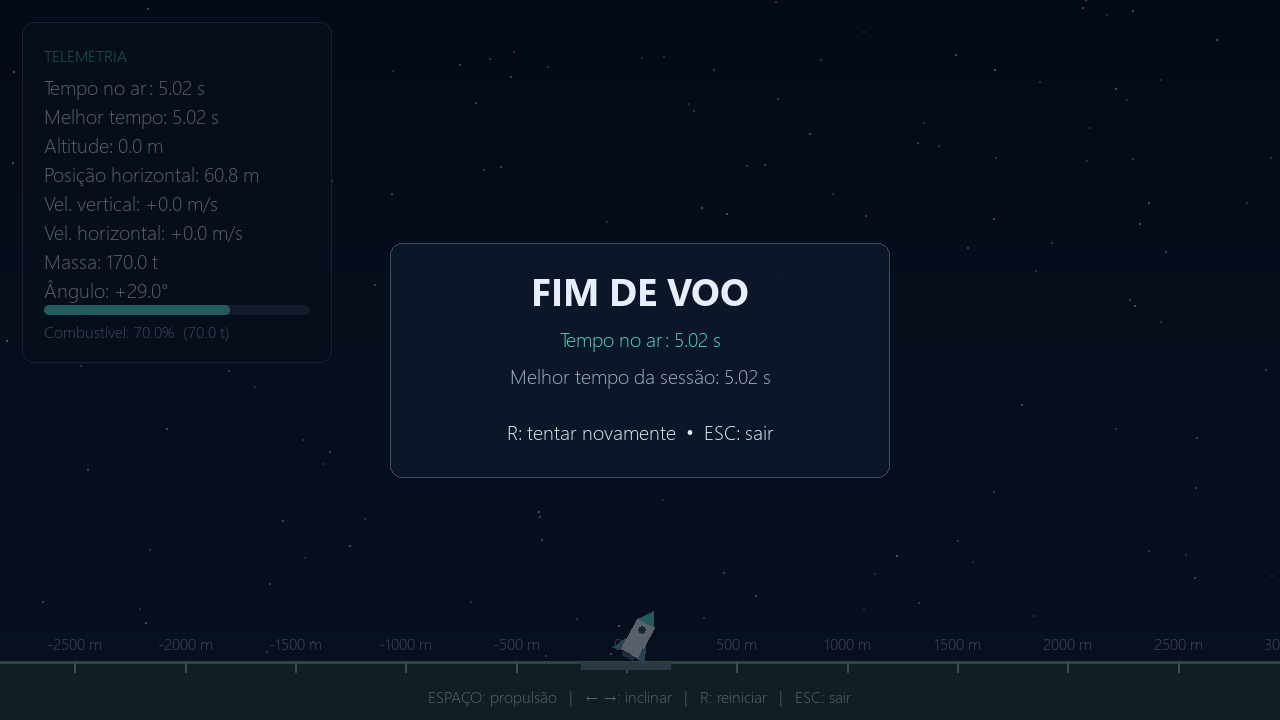
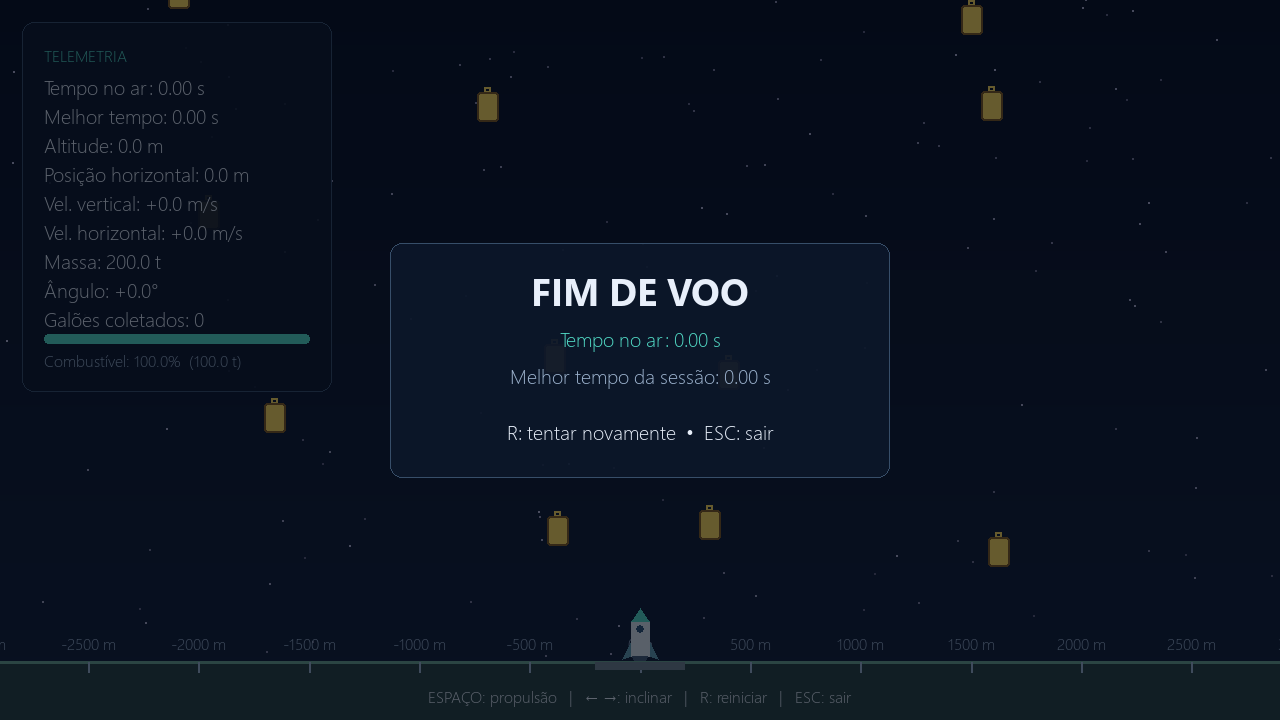
Adicionado combustivel e correções menores

diff --git a/main.py b/main.py
@@ -9,16 +9,24 @@ from physics import DT, FPS, FUEL_MASS
 from rocket import Rocket
 
 WORLD_HEIGHT = 3000.0  # metros visíveis na tela, antes do deslocamento da câmera
+MAX_ALTITUDE = 10_000.0  # teto e objetivo do voo, em metros
 GROUND_FRACTION = 0.08  # fração da tela ocupada pelo solo
 TEXT = (232, 239, 250)
 MUTED = (157, 179, 206)
 ACCENT = (82, 219, 198)
+FUEL_CELL_AMOUNT = FUEL_MASS * 0.60
+FUEL_CELL_RADIUS = 180.0  # margem de coleta incluindo o tamanho do foguete
+FUEL_CELL_COUNT = 4  # itens próximos da partida
+FUEL_SECTOR_WIDTH = 1200.0
+FUEL_SECTOR_HEIGHT = 900.0
+CAMERA_ROCKET_HEIGHT = 0.65  # mais espaço visível acima do foguete
 
 
 class Game:
     """Score em passos de simulação; o recorde dura enquanto o jogo estiver aberto."""
 
-    def __init__(self):
+    def __init__(self, rng=None):
+        self.rng = rng if rng is not None else random.Random()
         self.best = 0.0
         self.restart()
 
@@ -28,14 +36,74 @@ class Game:
 
     def restart(self):
         self.rocket = Rocket()
+        self.won = False
         self.frames = 0
+        self.fuel_cells = []
+        for altitude in (650, 1350):
+            for side in (-1, 1):
+                self.fuel_cells.append((
+                    side * self.rng.uniform(280, 420),
+                    altitude + self.rng.uniform(-60, 60),
+                ))
+        self.generated_sectors = set()
+        self.highest_y = self.rocket.y
+        self.collected = 0
+        self.extend_fuel_field()
+
+    def extend_fuel_field(self):
+        self.highest_y = max(self.highest_y, self.rocket.y)
+        # Explora setores do mapa nos dois eixos, antes de chegarem à tela.
+        left = math.floor((self.rocket.x - 4500) / FUEL_SECTOR_WIDTH)
+        right = math.floor((self.rocket.x + 4500) / FUEL_SECTOR_WIDTH)
+        bottom = max(0, math.floor((self.rocket.y - 3500) / FUEL_SECTOR_HEIGHT))
+        top = math.floor((self.rocket.y + 3500) / FUEL_SECTOR_HEIGHT)
+        for column in range(left, right + 1):
+            for row in range(bottom, top + 1):
+                sector = (column, row)
+                if sector in self.generated_sectors:
+                    continue
+                self.generated_sectors.add(sector)
+                if self.rng.random() > 0.65:
+                    continue
+                x = (column + self.rng.uniform(0.2, 0.8)) * FUEL_SECTOR_WIDTH
+                y = (row + self.rng.uniform(0.2, 0.8)) * FUEL_SECTOR_HEIGHT
+                # A região inicial tem somente os quatro galões de apoio.
+                if y >= MAX_ALTITUDE or (abs(x) < 900 and 250 < y < 1800):
+                    continue
+                self.fuel_cells.append((x, y))
+        # Descarta itens muito abaixo para limitar o uso de memória em voos longos.
+        floor = self.highest_y - WORLD_HEIGHT * 2
+        self.fuel_cells = [(x, y) for x, y in self.fuel_cells if y >= floor]
 
     def update(self, thrusting=False, turn=0):
-        if self.rocket.alive:
+        if self.rocket.alive and not self.won:
+            old_x, old_y = self.rocket.x, self.rocket.y
             # Atualização com passo fixo Δt = 1/60 s
             self.rocket.update(DT, thrusting, turn)
+            if self.rocket.alive:
+                if self.rocket.y >= MAX_ALTITUDE:
+                    self.rocket.y = MAX_ALTITUDE
+                    self.rocket.vx = self.rocket.vy = 0.0
+                    self.rocket.thrusting = False
+                    self.won = True
+                self.collect_fuel(old_x, old_y)
+                if not self.won:
+                    self.extend_fuel_field()
             self.frames += 1
             self.best = max(self.best, self.elapsed)
+
+    def collect_fuel(self, old_x, old_y):
+        # Distância ao trajeto do frame: não perde galões em alta velocidade.
+        dx, dy = self.rocket.x - old_x, self.rocket.y - old_y
+        length_squared = dx * dx + dy * dy
+        for x, y in self.fuel_cells[:]:
+            t = 0.0 if length_squared == 0 else max(
+                0.0, min(1.0, ((x - old_x) * dx + (y - old_y) * dy) / length_squared)
+            )
+            if math.hypot(x - old_x - t * dx, y - old_y - t * dy) <= FUEL_CELL_RADIUS:
+                self.rocket.fuel = min(FUEL_MASS, self.rocket.fuel + FUEL_CELL_AMOUNT)
+                self.fuel_cells.remove((x, y))
+                self.collected += 1
 
 
 class Renderer:
@@ -72,10 +140,11 @@ class Renderer:
         self.screen.blit(layer, rect)
         pygame.draw.rect(self.screen, (55, 78, 105), rect, 1, border_radius=12)
 
-    def draw_world(self, rocket):
+    def draw_world(self, game):
+        rocket = game.rocket
         # A câmera acompanha x e sobe quando necessário, sem alterar o movimento.
         camera_x = rocket.x
-        camera_y = max(0.0, rocket.y - WORLD_HEIGHT * 0.85)
+        camera_y = max(0.0, rocket.y - WORLD_HEIGHT * CAMERA_ROCKET_HEIGHT)
 
         def to_screen(x, y):
             return int(self.sw / 2 + (x - camera_x) * self.scale), int(self.ground_y - (y - camera_y) * self.scale)
@@ -94,6 +163,17 @@ class Renderer:
                 self.label(f"{x} m", sx, sy - self.small.get_height() - 8, MUTED, self.small, centered=True)
             sx, sy = to_screen(0, 0)
             pygame.draw.rect(self.screen, (113, 130, 144), (sx - 45, sy, 90, 8))
+
+        # Galões fixos no mundo, transformados pela mesma câmera do foguete.
+        for x, y in game.fuel_cells:
+            sx, sy = to_screen(x, y)
+            w, h = max(16, int(22 * self.ui)), max(22, int(30 * self.ui))
+            rect = pygame.Rect(sx - w // 2, sy - h // 2, w, h)
+            if not self.screen.get_rect().colliderect(rect.inflate(8, 12)):
+                continue
+            pygame.draw.rect(self.screen, (255, 219, 91), (rect.centerx - w // 5, rect.top - 5, max(4, w // 3), 6), 2)
+            pygame.draw.rect(self.screen, (255, 219, 91), rect, border_radius=3)
+            pygame.draw.rect(self.screen, (129, 90, 31), rect, 2, border_radius=3)
 
         # Desenho
         px, py = to_screen(rocket.x, rocket.y)  # (px, py) = centro de massa
@@ -125,11 +205,11 @@ class Renderer:
 
     def draw(self, game):
         rocket = game.rocket
-        self.draw_world(rocket)
+        self.draw_world(game)
         margin = int(22 * self.ui)
         row = max(22, int(29 * self.ui))
         width = max(245, int(310 * self.ui))
-        self.panel(pygame.Rect(margin, margin, width, row * 11 + margin))
+        self.panel(pygame.Rect(margin, margin, width, row * 12 + margin))
         x, y = margin * 2, margin * 2
         self.label("TELEMETRIA", x, y, ACCENT, self.small)
         lines = [
@@ -141,19 +221,20 @@ class Renderer:
             f"Vel. horizontal: {rocket.vx:+.1f} m/s",
             f"Massa: {rocket.mass / 1000:.1f} t",
             f"Ângulo: {math.degrees(rocket.angle):+.1f}°",
+            f"Galões coletados: {game.collected}",
         ]
         for i, line in enumerate(lines, 1):
             self.label(line, x, y + i * row)
         ratio = rocket.fuel / FUEL_MASS
-        bar = pygame.Rect(x, y + 9 * row, width - 2 * margin, max(8, int(10 * self.ui)))
+        bar = pygame.Rect(x, y + 10 * row, width - 2 * margin, max(8, int(10 * self.ui)))
         pygame.draw.rect(self.screen, (43, 60, 80), bar, border_radius=4)
         if ratio > 0:
             pygame.draw.rect(self.screen, ACCENT if ratio > .2 else (255, 169, 77), (bar.x, bar.y, int(bar.width * ratio), bar.height), border_radius=4)
         self.label(f"Combustível: {ratio:.1%}  ({rocket.fuel / 1000:.1f} t)", x, bar.bottom + 5, MUTED, self.small)
         self.label("ESPAÇO: propulsão   |   ← →: inclinar   |   R: reiniciar   |   ESC: sair", self.sw // 2, self.sh - max(26, int(35 * self.ui)), TEXT, self.small, centered=True)
-        if rocket.alive and rocket.fuel == 0:
+        if rocket.alive and not game.won and rocket.fuel == 0:
             self.label("Combustível esgotado", self.sw // 2, margin, (255, 169, 77), centered=True)
-        if not rocket.alive:
+        if not rocket.alive or game.won:
             shade = pygame.Surface(self.screen.get_size(), pygame.SRCALPHA)
             shade.fill((3, 8, 18, 155))
             self.screen.blit(shade, (0, 0))
@@ -161,7 +242,7 @@ class Renderer:
             card.center = (self.sw // 2, self.sh // 2)
             self.panel(card)
             cx = card.centerx
-            self.label("FIM DE VOO", cx, card.top + int(22 * self.ui), font=self.title, centered=True)
+            self.label("10.000 m — VITÓRIA!" if game.won else "FIM DE VOO", cx, card.top + int(22 * self.ui), font=self.title, centered=True)
             self.label(f"Tempo no ar: {game.elapsed:.2f} s", cx, card.top + int(82 * self.ui), ACCENT, centered=True)
             self.label(f"Melhor tempo da sessão: {game.best:.2f} s", cx, card.top + int(119 * self.ui), MUTED, centered=True)
             self.label("R: tentar novamente  •  ESC: sair", cx, card.top + int(175 * self.ui), centered=True)

diff --git a/test_game.py b/test_game.py
@@ -1,13 +1,39 @@
 """Validação numérica dos requisitos; execute com py -m unittest -v."""
 import math
+import random
 import unittest
 
-from main import Game
+from main import FUEL_CELL_AMOUNT, FUEL_CELL_COUNT, FUEL_CELL_RADIUS, MAX_ALTITUDE, Game
 from physics import DT, DRY_MASS, FUEL_MASS, FUEL_PER_FRAME, G, MAX_ANGLE, THRUST
 from rocket import Rocket
 
 
 class PhysicsTests(unittest.TestCase):
+    def test_altitude_limit_finishes_flight_and_restart_clears_victory(self):
+        game = Game()
+        game.rocket.y = MAX_ALTITUDE - 1
+        game.rocket.vy = 120
+        game.update(True)
+        self.assertTrue(game.won)
+        self.assertTrue(game.rocket.alive)
+        self.assertEqual(game.rocket.y, MAX_ALTITUDE)
+        self.assertEqual((game.rocket.vx, game.rocket.vy), (0, 0))
+        self.assertFalse(game.rocket.thrusting)
+        state = (game.elapsed, game.rocket.x, game.rocket.y, game.rocket.fuel)
+        for _ in range(60):
+            game.update(True, 1)
+        self.assertEqual(state, (game.elapsed, game.rocket.x, game.rocket.y, game.rocket.fuel))
+        game.restart()
+        self.assertFalse(game.won)
+        self.assertEqual(game.rocket.y, 1000)
+        self.assertEqual(game.elapsed, 0)
+
+    def test_fuel_stays_below_altitude_limit(self):
+        game = Game(rng=random.Random(42))
+        game.rocket.y = MAX_ALTITUDE - 100
+        game.extend_fuel_field()
+        self.assertTrue(all(y < MAX_ALTITUDE for x, y in game.fuel_cells))
+
     def test_free_fall_and_collision(self):
         rocket = Rocket(y=100)
         frames = 0
@@ -27,7 +53,7 @@ class PhysicsTests(unittest.TestCase):
         self.assertEqual(rocket.fuel, FUEL_MASS - FUEL_PER_FRAME)
         expected_vy = (THRUST / (DRY_MASS + FUEL_MASS) - G) * DT
         self.assertAlmostEqual(rocket.vy, expected_vy)
-        self.assertAlmostEqual(rocket.y, 2500 + expected_vy * DT)
+        self.assertAlmostEqual(rocket.y, 1000 + expected_vy * DT)
 
     def test_fuel_exhaustion(self):
         rocket = Rocket(y=100_000)
@@ -66,6 +92,101 @@ class PhysicsTests(unittest.TestCase):
         self.assertEqual(game.best, score)
         self.assertTrue(game.rocket.alive)
         self.assertEqual(game.rocket.fuel, FUEL_MASS)
+
+    def test_collect_refuels_once_and_changes_mass(self):
+        game = Game()
+        game.fuel_cells = [(500, 1000)]
+        game.rocket.x, game.rocket.y = game.fuel_cells[0]
+        game.rocket.fuel = FUEL_MASS * 0.20
+        game.update()
+        self.assertEqual(game.collected, 1)
+        self.assertNotIn((500, 1000), game.fuel_cells)
+        self.assertEqual(game.rocket.fuel, FUEL_MASS * 0.20 + FUEL_CELL_AMOUNT)
+        self.assertEqual(game.rocket.mass, DRY_MASS + game.rocket.fuel)
+        game.update()
+        self.assertEqual(game.collected, 1)
+        self.assertEqual(game.rocket.fuel, FUEL_MASS * 0.20 + FUEL_CELL_AMOUNT)
+
+    def test_collect_caps_tank_and_restart_restores_cells(self):
+        game = Game()
+        game.rocket.x, game.rocket.y = game.fuel_cells[0]
+        game.rocket.fuel = FUEL_MASS - 1
+        game.update()
+        self.assertEqual(game.rocket.fuel, FUEL_MASS)
+        game.restart()
+        self.assertEqual(game.collected, 0)
+        self.assertEqual(sum(abs(x) < 900 and 250 < y < 1800 for x, y in game.fuel_cells), FUEL_CELL_COUNT)
+        self.assertEqual(game.rocket.y, 1000)
+
+    def test_four_nearby_cells_and_random_map_on_restart(self):
+        game = Game(rng=random.Random(42))
+        original = game.fuel_cells[:]
+        nearby = [(x, y) for x, y in original if abs(x) < 900 and 250 < y < 1800]
+        self.assertEqual(len(nearby), 4)
+        self.assertTrue(all(math.hypot(x, y - 1000) > FUEL_CELL_RADIUS for x, y in nearby))
+        self.assertTrue(any(x < -2000 for x, y in original))
+        self.assertTrue(any(x > 2000 for x, y in original))
+        game.restart()
+        self.assertNotEqual(original, game.fuel_cells)
+
+    def test_diagonal_and_horizontal_flight_generate_new_regions(self):
+        for destination in ((9000, 1000), (-9000, 1000), (9000, 8000)):
+            game = Game(rng=random.Random(42))
+            original = set(game.fuel_cells)
+            game.rocket.x, game.rocket.y = destination
+            game.extend_fuel_field()
+            added = set(game.fuel_cells) - original
+            self.assertGreater(len(added), 0)
+            self.assertTrue(any(abs(x - destination[0]) < 2000 for x, y in added))
+            self.assertTrue(any(abs(y - destination[1]) < 1500 for x, y in added))
+
+    def test_visited_sectors_do_not_regenerate_collected_fuel(self):
+        game = Game(rng=random.Random(42))
+        collected_cell = game.fuel_cells[-1]
+        game.fuel_cells.remove(collected_cell)
+        game.extend_fuel_field()
+        self.assertNotIn(collected_cell, game.fuel_cells)
+        game.rocket.x = 9000
+        game.extend_fuel_field()
+        positions = set(game.fuel_cells)
+        game.rocket.x = 0
+        game.extend_fuel_field()
+        self.assertEqual(set(game.fuel_cells), positions)
+        self.assertNotIn(collected_cell, game.fuel_cells)
+
+    def test_long_climb_discards_old_cells(self):
+        game = Game(rng=random.Random(42))
+        for altitude in range(2000, 50000, 1000):
+            game.rocket.y = altitude
+            game.extend_fuel_field()
+        self.assertLess(len(game.fuel_cells), 100)
+        self.assertTrue(all(y >= game.highest_y - 6000 for x, y in game.fuel_cells))
+
+    def test_larger_hitbox_collects_nearby_but_not_distant_cells(self):
+        game = Game()
+        game.fuel_cells = [(FUEL_CELL_RADIUS - 1, 1000), (FUEL_CELL_RADIUS + 1, 1000)]
+        game.update()
+        self.assertEqual(game.collected, 1)
+        self.assertEqual(game.fuel_cells, [(FUEL_CELL_RADIUS + 1, 1000)])
+
+    def test_collection_uses_distance_and_entire_frame_path(self):
+        game = Game()
+        game.fuel_cells = [(300, 1000)]
+        game.update()
+        self.assertEqual(game.collected, 0)
+        game.rocket.vx = 600 / DT
+        game.update()
+        self.assertEqual(game.collected, 1)
+        self.assertNotIn((300, 1000), game.fuel_cells)
+
+    def test_dead_rocket_cannot_collect(self):
+        game = Game()
+        game.fuel_cells = [(0, 0)]
+        game.rocket = Rocket(y=0.001)
+        game.update()
+        self.assertFalse(game.rocket.alive)
+        self.assertEqual(game.collected, 0)
+        self.assertEqual(game.fuel_cells, [(0, 0)])
 
 
 if __name__ == "__main__":

diff --git a/rocket.py b/rocket.py
@@ -5,7 +5,7 @@ from physics import DRY_MASS, FUEL_MASS, FUEL_PER_FRAME, G, MAX_ANGLE, THRUST, T
 
 
 class Rocket:
-    def __init__(self, x=0.0, y=2500.0):
+    def __init__(self, x=0.0, y=1000.0):
         # Posição (m): x horizontal, y altitude (0 = solo)
         self.x = x
         self.y = y

diff --git a/README.md b/README.md
@@ -45,8 +45,23 @@ do seu interpretador Python, como `python3`, nos comandos acima.
 ## Controles e objetivo
 
 Segure **Espaço** para propulsionar e use **← / →** para inclinar o foguete.
-**R** inicia uma nova tentativa e **Esc** sai. O objetivo é permanecer no ar
-pelo maior tempo possível. O recorde é mantido durante a sessão.
+**R** inicia uma nova tentativa e **Esc** sai. O objetivo é alcançar **10.000 m**
+sem cair, coletando combustível durante o caminho. Ao chegar a essa altitude, o voo termina
+com vitória e o cronômetro para. O recorde de tempo no ar é mantido na sessão.
+
+Quatro galões ficam próximos do ponto de partida. Os demais são espalhados
+pelo mapa em setores de 1200 × 900 m, com 65% de chance de um galão por setor.
+A região inicial é reservada aos quatro galões de apoio para evitar excesso.
+A geração acompanha tanto a subida quanto o movimento lateral, permitindo
+encontrar combustível em voos diagonais. Cada setor é gerado uma única vez
+por partida; voltar a uma região não repõe os itens coletados. Galões mais
+de 6000 m abaixo da maior altitude são descartados.
+Aproxime o foguete para coletá-los: cada galão repõe **60% da capacidade do
+tanque**, até o limite de 100%.
+O painel mostra quantos foram coletados. **R** sorteia novas posições.
+A coleta aceita uma distância de até 180 m do trajeto do foguete, inclusive
+quando ele atravessa um galão em alta velocidade.
+O combustível coletado também aumenta a massa do foguete.
 
 ## Arquivos do projeto
 
@@ -63,7 +78,7 @@ e o melhor tempo da sessão.
 
 ## Física para a apresentação
 
-O foguete começa a 2500 m de altitude, em repouso, com 100 000 kg de massa
+O foguete começa a 1000 m de altitude, em repouso, com 100 000 kg de massa
 seca e 100 000 kg de combustível. As posições são medidas em metros e as
 velocidades em metros por segundo. O eixo y aponta para cima.
 
@@ -113,3 +128,4 @@ py -m unittest -v
 Os testes conferem queda livre, colisão,
 empuxo inicial, consumo até esgotar o combustível, limites de inclinação,
 movimento horizontal, score e reinício.
+Também verificam coleta de galões, limite do tanque e restauração dos itens.
